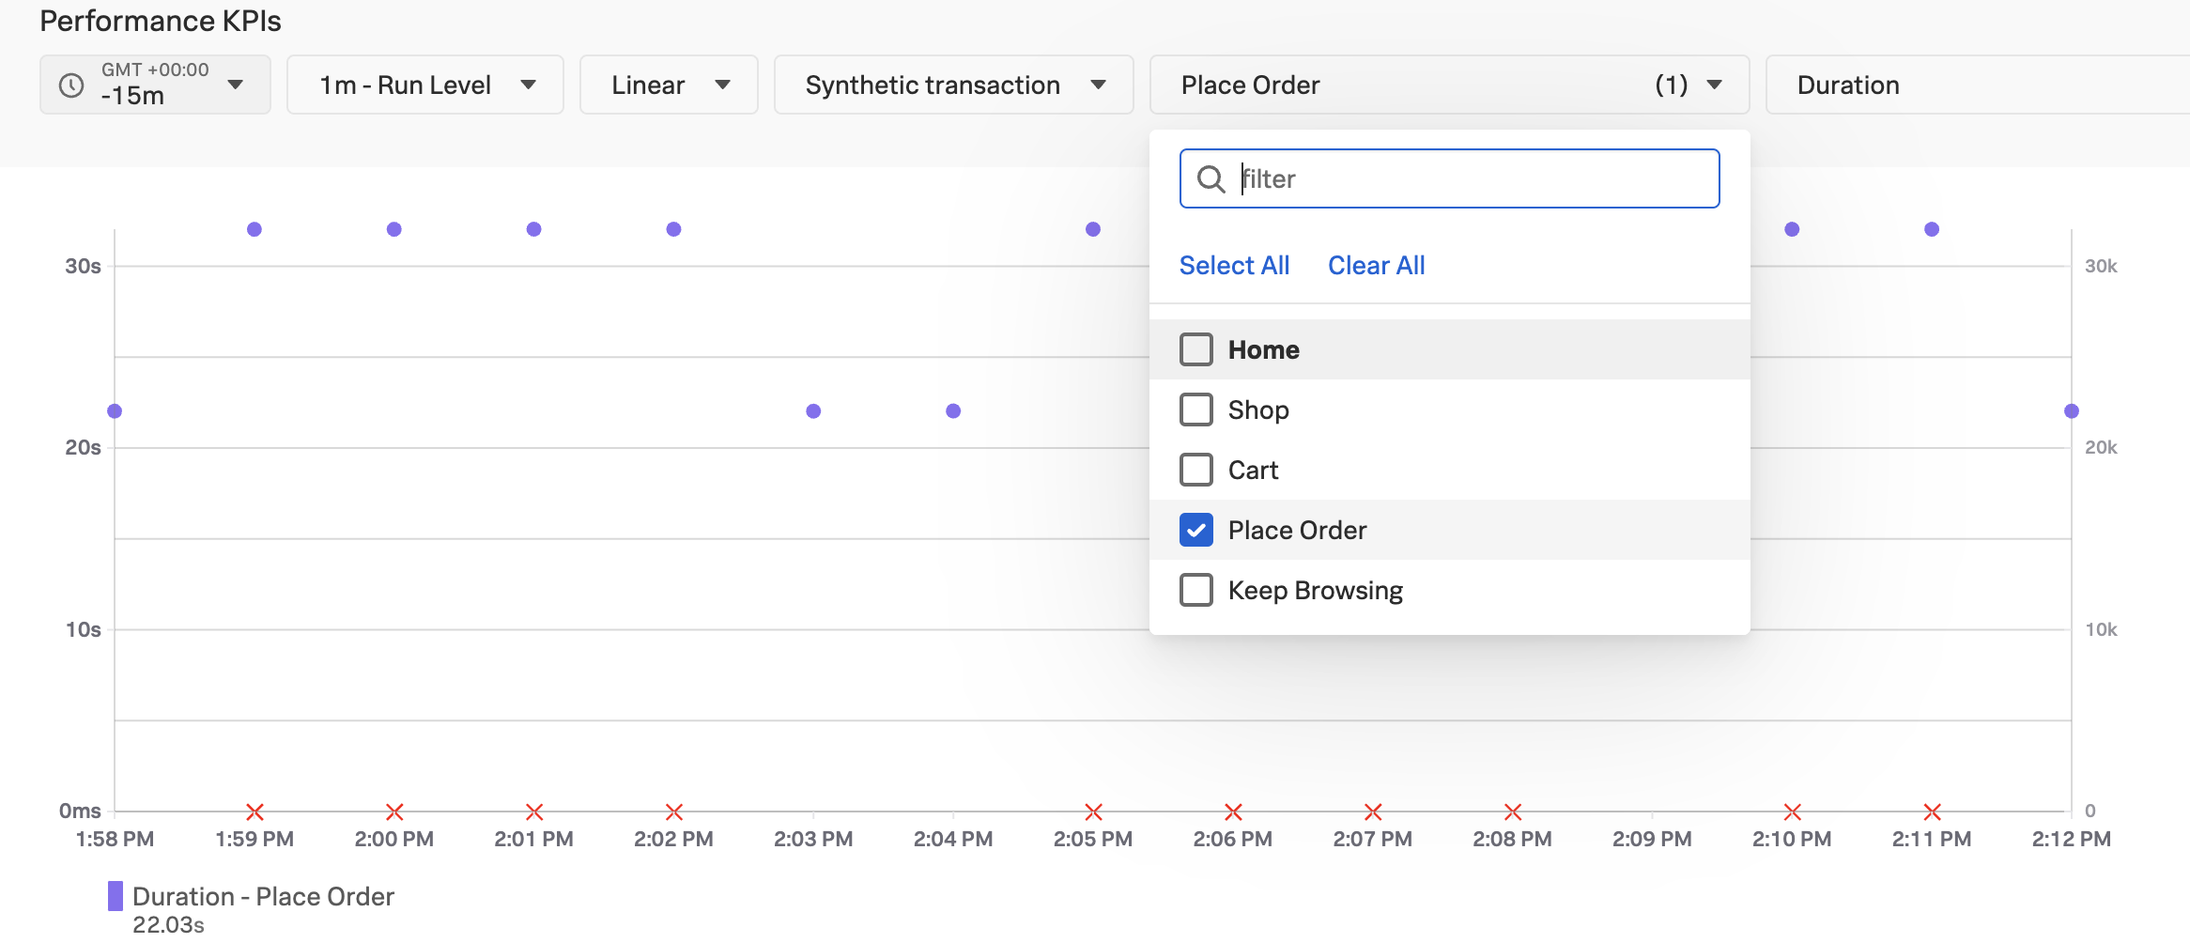
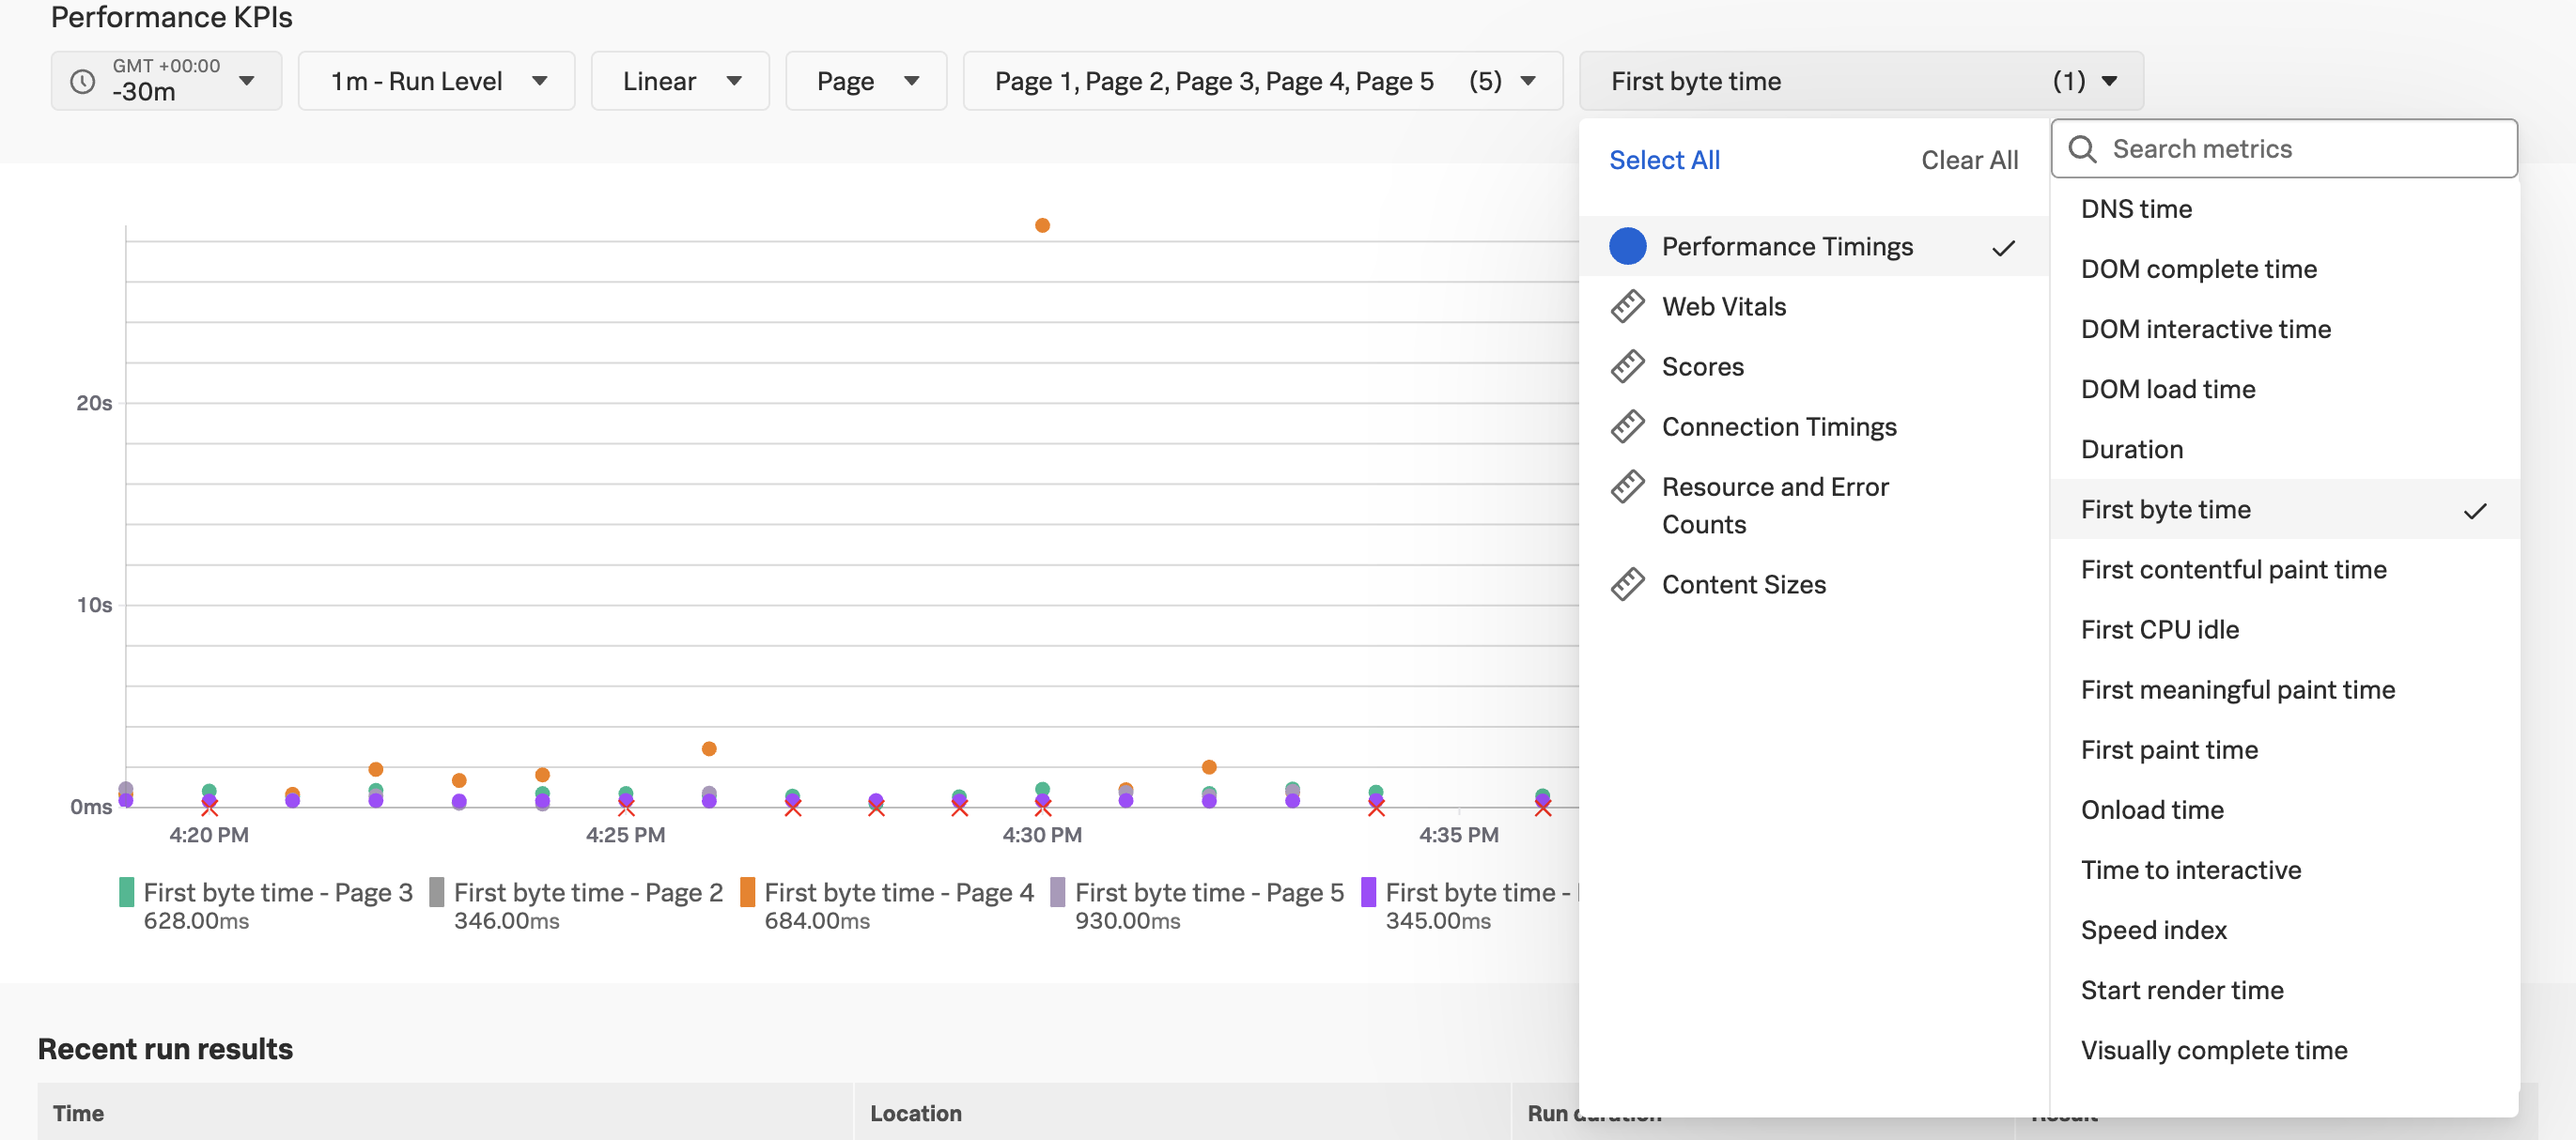
Improved Synthetics flow

diff --git a/content/en/s4r/8-synthetics/1-synthetics-dashboard.md b/content/en/s4r/8-synthetics/1-synthetics-dashboard.md
@@ -3,32 +3,21 @@ title: 1. Synthetics Dashboard
 weight: 1
 ---
 
-In Splunk Observability Cloud from the main menu, click on **Synthetics**. Click on **All** or **Browser tests** to see the list of active tests:
+In Splunk Observability Cloud from the main menu, click on **Synthetics**. Click on **All** or **Browser tests** to see the list of active tests.
 
 During our investigation in the RUM section, we found there was an issue with the **Place Order** Transaction. Let's see if we can confirm this from the Synthetics test as well.
 
-In the **Search** box enter **Workshop Browser Test** and select the test for your workshop (your instructor will advise as to which one to select).
-
 {{% notice title="Exercise" style="green" icon="running" %}}
 
-* Make sure the page you are looking at is the result page for the **Workshop Browser Test for [NAME OF WORKSHOP]**
-* Under **Performance KPIs** set the Time Picker to **-1h** and hit enter.
-* From the **Location** drop-down select **Synthetic transactions**.
-* Looking at the dots, which transaction has a performance issue?
-* Next, change the Time Picker to **-15m** and hit enter.
-* Change the filtering so that only **Place Order** is visible by removing all other transactions from the drop-down.
+* In the **Search** box enter **Workshop Browser Test** and select the test for your workshop (your instructor will advise as to which one to select).
+* Under **Performance KPIs** set the Time Picker to **-30m** and hit enter.
+* Click on **Location** and from the drop-down and select **Page**. The next filter will be populated with the pages that are part of the test.
+* Click on **Duration** and deselect **Duration** and then select **First byte time**.
   ![Transaction Filter](../images/synthetics-transaction-filter.png)
-* As you move your mouse pointer horizontally across the chart a vertical line will appear showing the duration and the time of the test.
-* What can you conclude about the relation of the dots and the red **X** at the bottom?
-* Change the filter to just *Keep Browsing*, the dots will change both pattern and color.
-* Select a successful test dot. (One that has no red X beneath it). If there are multiple tests in that time range you will be presented with a list of tests. Pick one that is 20 seconds or longer and results in ✅ Success.
-  ![Duration - Place Order](../images/duration-place-order.png)
+* Look at the legend and note the color of **First byte time - Page 4**.
+* Select the highest data point for **First byte time - Page 4**.
+* A new pane will slide in from the right. Note the time at the top of the pane. Find this time in the list and click on it.
+  ![Multiple Runs](../images/synthetics-multiple-runs.png)
 {{% /notice %}}
 
-![Results](../images/select-result.png)
-
-This will take you to the Synthetic Test Details or Waterfall. If the Waterfall has a Red Banner like this on top:
-
-![error](../images/run-result-error.png?classes=left)
-
-You accidentally picked a test that had an error, it timed out. (This can happen as new tests are added and the UI just refreshed). In that case, use the browser back button and try again.
+You will now be taken to the **Run results** for this particular test run.

diff --git a/content/en/s4r/8-synthetics/3-synthetics-to-apm.md b/content/en/s4r/8-synthetics/3-synthetics-to-apm.md
@@ -9,10 +9,8 @@ We now should have a view similar to the one below.
 
 {{% notice title="Exercise" style="green" icon="running" %}}
 
-* In the waterfall find the second call out to **POST checkout**.
-* Click on the **>** button in front of it to drop open the metadata section.
-* Verify that the credit card information is passed to the service.
-* Close the Meta Data view and confirm you have the same view as above.
+* In the waterfall find an entry that starts with **POST checkout**.
+* Click on the **>** button in front of it to drop open the metadata section. Observe the metadata that is collected, note the **Server-Timing** header. This header is what allows us to correlate the test run to a back-end trace.
 * Click on the blue {{% icon icon="link" %}} **APM** link on the **POST checkout** line in the waterfall.
 {{% /notice %}}
 

diff --git a/content/en/s4r/8-synthetics/2-synthetics-detail.md b/content/en/s4r/8-synthetics/2-synthetics-detail.md
@@ -13,7 +13,7 @@ Right now we are looking at the result of a single Synthetic Browser Test. This 
 4. **Synthetic transactions:**  List of the Synthetic transactions that made up the interaction with the site
 5. **Waterfall chart**  The waterfall chart is a visual representation of the interaction between the test runner and the site being tested.
 
-By default, Splunk Synthetics provides screenshots and video capture of the test. This is useful for debugging issues. You can see, for example, slow loading of large images, the slow rendering of a page etc.
+By default, Splunk Synthetics provides screenshots and video capture of the test. This is useful for debugging issues. You can see, for example, the slow loading of large images, the slow rendering of a page etc.
 
 {{% notice title="Exercise" style="green" icon="running" %}}
 
